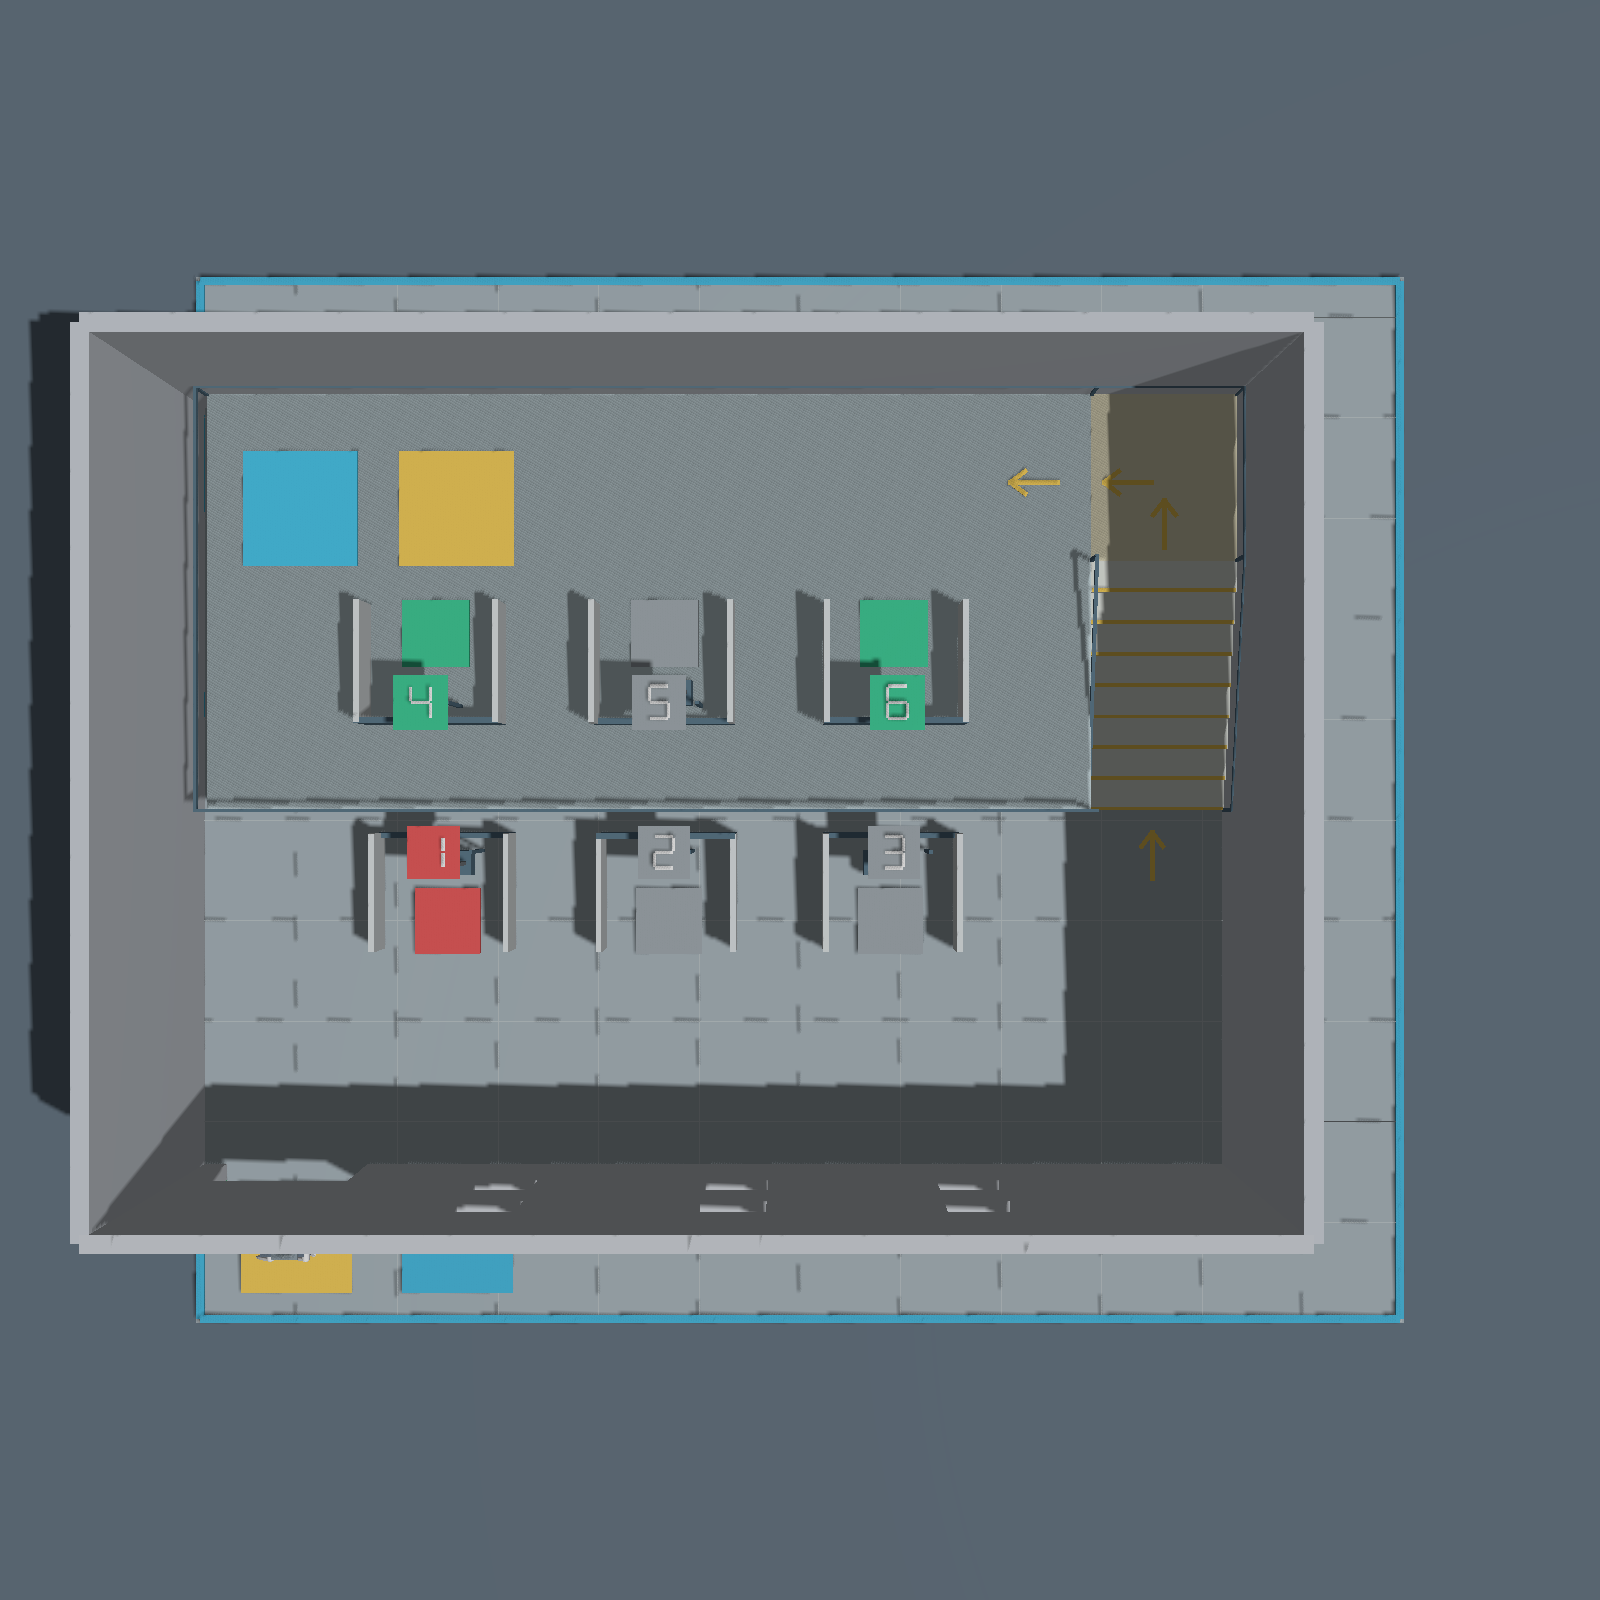
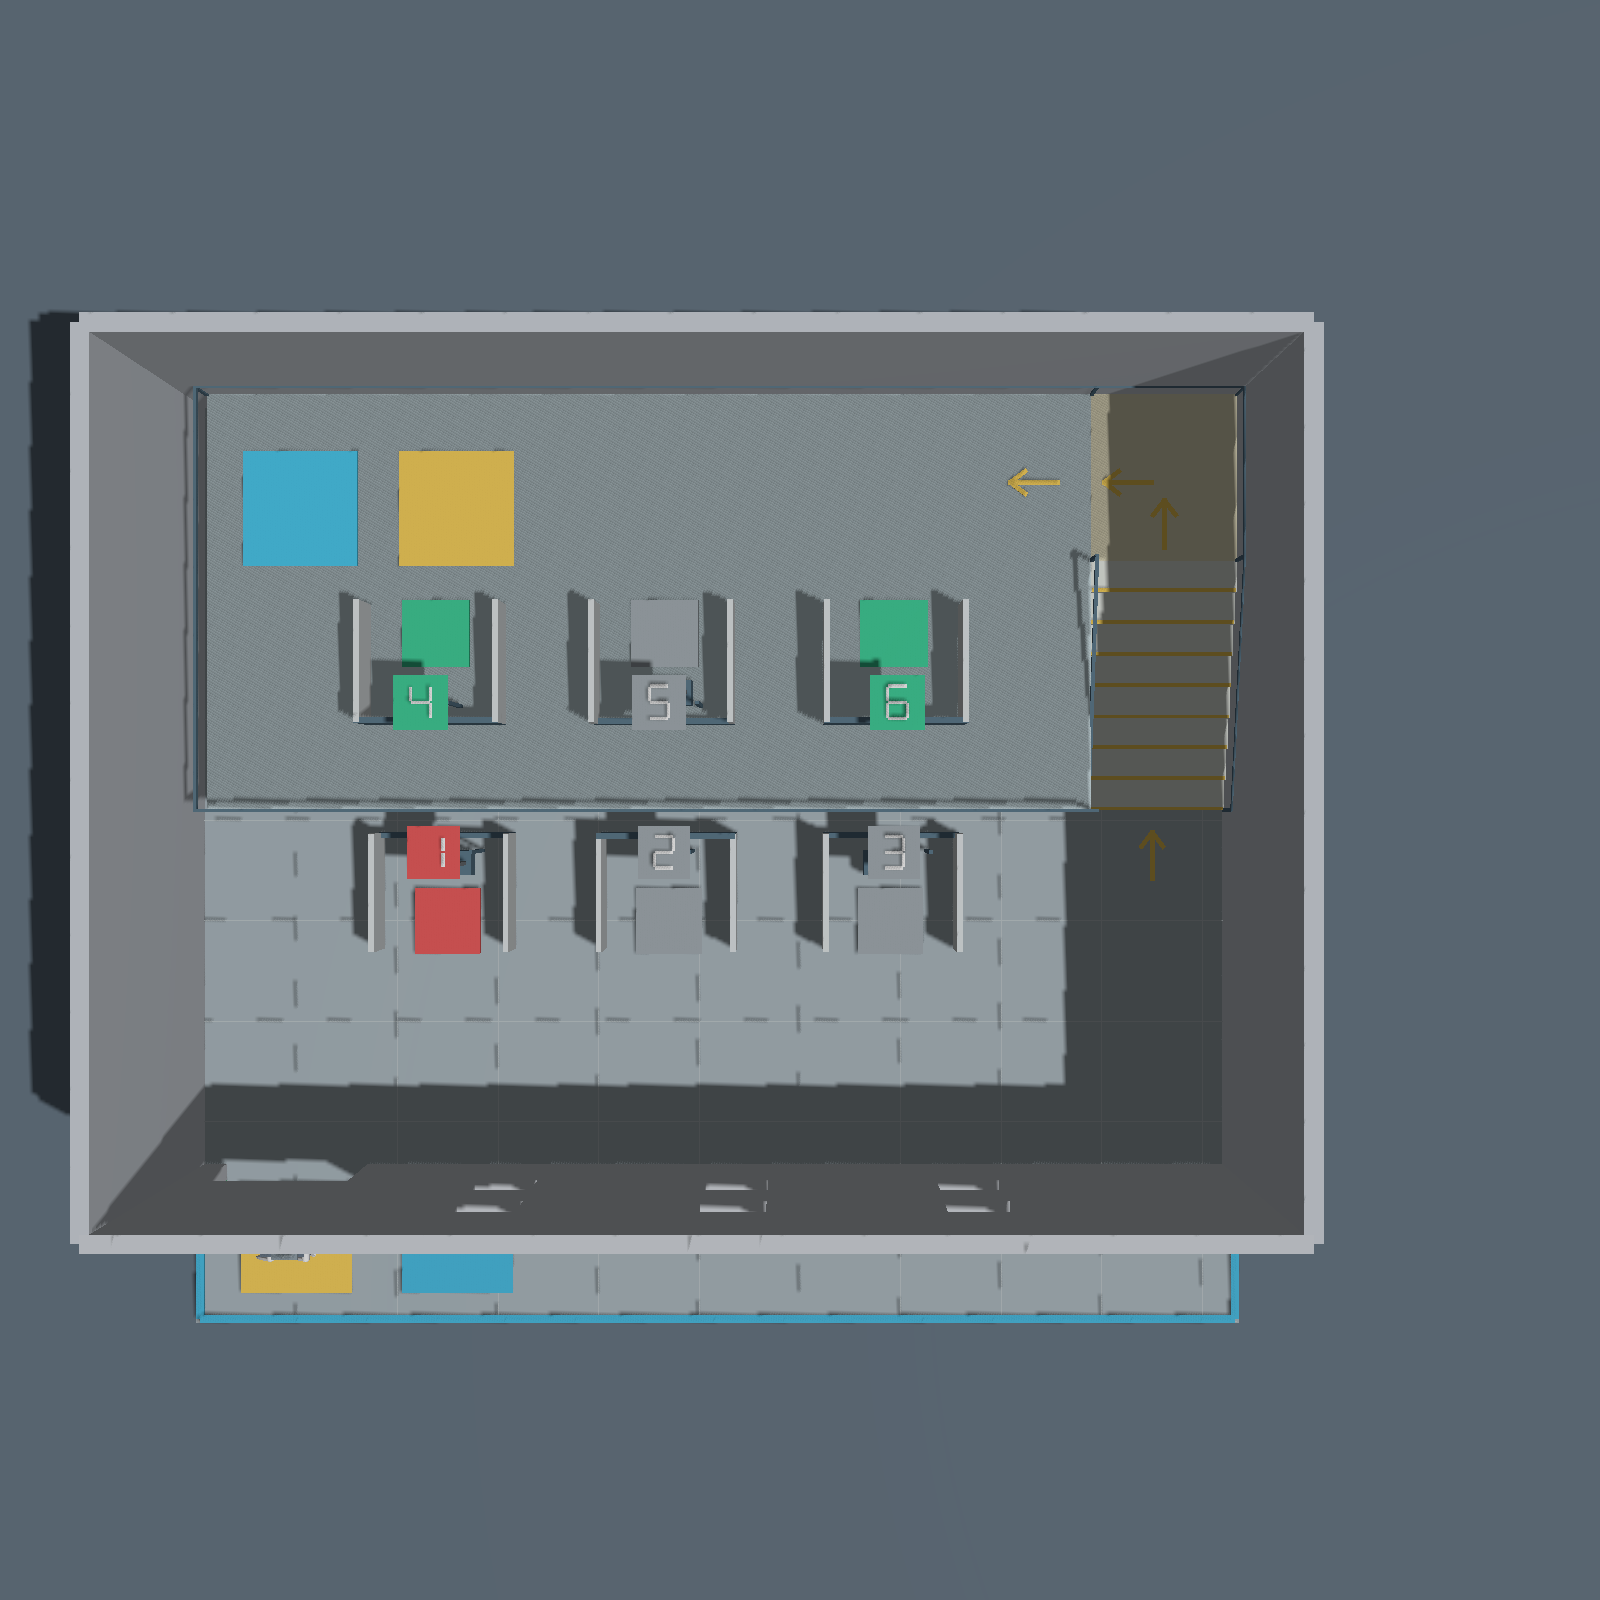
Trim gray floor and boundary markings to the compact exterior walls

Changed region(s): [[0.125, 0.1562, 0.875, 0.8438]]

diff --git a/docs/MAP_VALIDATION.md b/docs/MAP_VALIDATION.md
@@ -1,11 +1,11 @@
-# 地图调整验收（2026-10-21，v1.6.0）
+# 地图调整验收（2026-10-21，v1.6.1）
 
 ## 外墙收拢
 
 - 楼梯低端入口朝俯视图下侧，位于 Y=5.1 m；从下向上爬升，八级台阶占 Y=5.1–7.5 m，高端转向平台位于 Y=7.5–9.1 m。
 - 二层外轮廓仍为 X=0.3–10.2 m、Y=5.1–9.1 m，高度 0.8 m。楼梯宽 1.4 m、级高 0.1 m、踏面 0.3 m，内嵌于二层右侧。
 - 图中上方墙中心 Y=9.18 m、右墙中心 X=10.28 m，墙厚 0.16 m；墙内侧分别为 Y=9.1 m、X=10.2 m，与二层外缘齐平。建筑内部净尺寸约 10.12 × 7.52 m。
-- 下方门窗墙和左墙位置不变。地面底板保留 12 × 10.4 m，收拢后露出的部分为楼外区域。
+- 下方门窗墙和左墙位置不变。灰色底板、网格及蓝色边界同步收拢为 10.36 × 9.26 m；上方、右侧与外墙外缘齐平，下方保留门外出发区。
 - 路线、楼梯、目标、集合区、窗户、无人机巡航位置和两机模型保持上一版一致。
 - 1/2/3 号目标位于 Y=4.3 m；4/5/6 号目标位于二层下侧 Y=6.5 m。目标列 X=2.5 / 4.7 / 6.9 m，顶部数字正向可读。
 - 1 号目标最左边缘 X=1.8225 m，位于门洞右边界 X=1.7 m 以右。
@@ -14,6 +14,8 @@
 - 全部台阶和平台的实体碰撞箱与 `terrain.json` 高度区域一致。
 
 ## 实测
+
+v1.6.1 只调整地面可视范围与边线；已逐项确认碰撞体、物理参数和路线未变，并重新完成 Gazebo 渲染。以下完整比赛结果来自 v1.6.0，未重复运行。
 
 默认 2 号窗完整比赛 **3/3 通过**，`strict_pass: true`，用时 **293.561 秒仿真时间**。
 完成穿窗、首报、进门、打靶、从下侧梯脚爬上八级台阶、两次投放，以及左上角两机集合。

diff --git a/README.md b/README.md
@@ -26,7 +26,7 @@ sudo apt install build-essential cmake python3-colcon-common-extensions \
 
 mkdir -p ~/d1_ws/src
 # 将收到的压缩包放入当前目录；解压后为 src/d1_tello_competition
-tar -xzf d1_tello_competition_student_20261021_v1.6.0.tar.gz -C ~/d1_ws/src
+tar -xzf d1_tello_competition_student_20261021_v1.6.1.tar.gz -C ~/d1_ws/src
 cd ~/d1_ws
 colcon build --packages-select d1_tello_competition --cmake-args -DCMAKE_BUILD_TYPE=Release
 source install/setup.bash
@@ -43,7 +43,7 @@ ros2 launch d1_tello_competition competition.launch.py
 ```
 
 自动播放完整比赛，约 5 分钟仿真时间。窗口中可拖动、缩放查看场景；Ctrl+C 退出。
-地面底板为 12 × 10.4 m；建筑内侧净尺寸约 10.12 × 7.52 m，上方及右侧外墙内面贴齐二层外缘。二层高 0.8 m、进深 4.0 m；楼梯嵌入二层右侧缺口，低端入口朝俯视图下侧，机器狗朝图中上方上楼。
+灰色地面底板为 10.36 × 9.26 m（含门外起点区），上方和右侧与外墙外缘齐平；建筑内侧净尺寸约 10.12 × 7.52 m，上方及右侧外墙内面贴齐二层外缘。二层高 0.8 m、进深 4.0 m；楼梯嵌入二层右侧缺口，低端入口朝俯视图下侧，机器狗朝图中上方上楼。
 二层范围为 Y=5.1–9.1 m；梯脚在 Y=5.1 m，高端转向平台在 Y=7.5–9.1 m。
 8 级楼梯每级高 0.1 m、踏面 0.3 m、宽 1.4 m，保留上层转向平台。目标列横坐标为 2.5、4.7、6.9 m。
 1–3 号目标移至 Y=4.3 m，4–6 号目标位于二层下侧 Y=6.5 m，开口朝图中上方。
